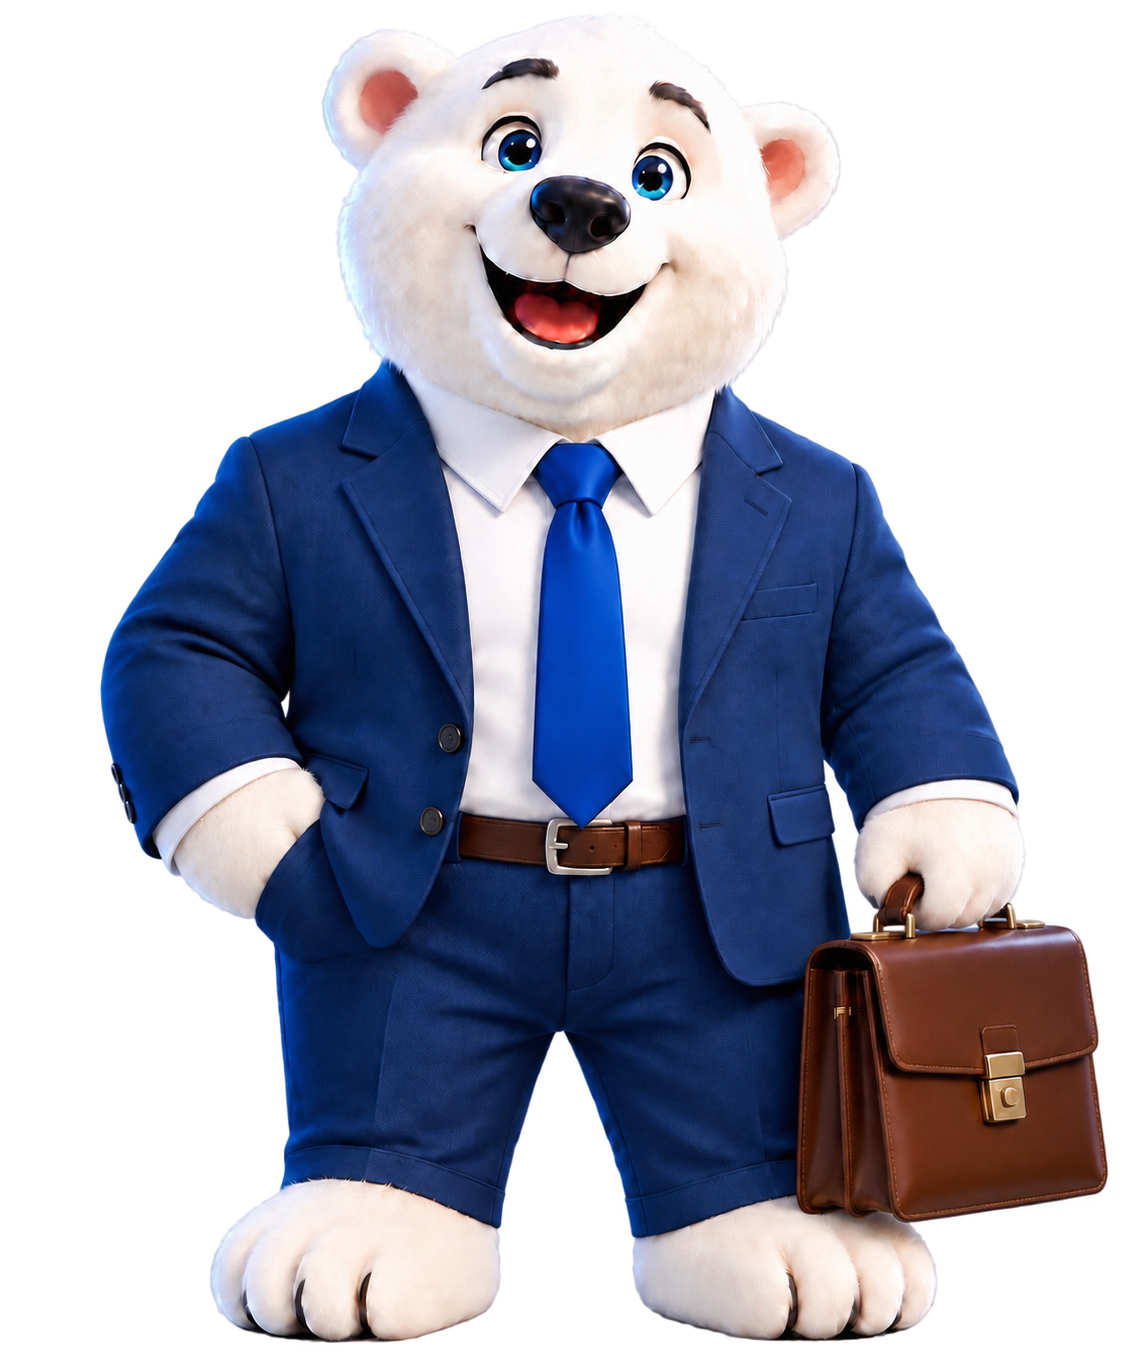
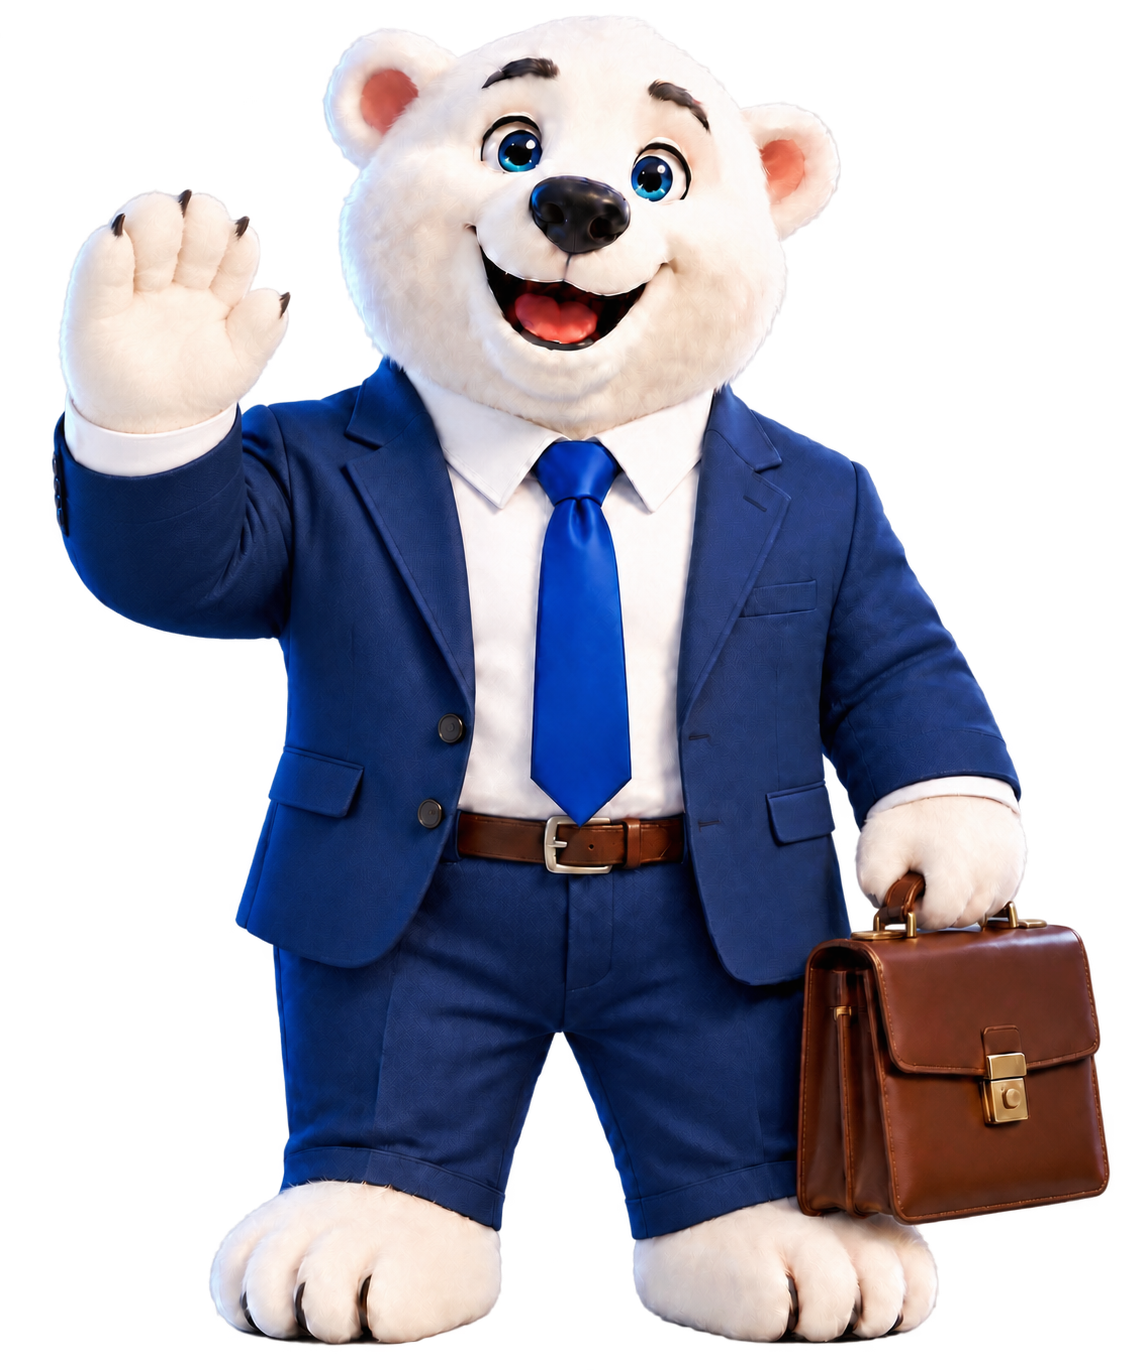
Agrega estado de bienvenida (saludo) al asistente de Humana Business
El oso ejecutivo ahora saluda al ingresar a la página (imagen wave +
mensaje de bienvenida) y, tras unos segundos, pasa automáticamente a la
postura normal con mensajes contextuales según la sección visible,
igual que antes. Ambas imágenes usadas sin modificar.

Claude-Session: https://claude.ai/code/session_01Bg84ahHtij6oa6u1y7U9Xu

diff --git a/app/planes/business/page.tsx b/app/planes/business/page.tsx
@@ -173,6 +173,9 @@ const assistantMessages: Record<string, string> = {
 };
 
 const ASSISTANT_STORAGE_KEY = "business-bear-assistant-minimized";
+const ASSISTANT_WELCOME_MESSAGE =
+  "Hola, soy el asistente virtual de Humana Business. Te acompañaré a descubrir cómo cuidar el bienestar de tu equipo.";
+const ASSISTANT_WELCOME_DURATION_MS = 5000;
 
 /* ---------------------------------------------------------------------- */
 /* Página                                                                  */
@@ -187,6 +190,7 @@ export default function HumanaBusinessPage() {
   const [quoted, setQuoted] = useState(false);
   const [assistantSection, setAssistantSection] = useState("business-inicio");
   const [assistantMinimized, setAssistantMinimized] = useState(false);
+  const [assistantWelcome, setAssistantWelcome] = useState(true);
 
   const activeChapter = chapters.find((c) => c.id === activeChapterId) ?? null;
 
@@ -217,6 +221,17 @@ export default function HumanaBusinessPage() {
       return next;
     });
   };
+
+  /* Estado de bienvenida: el oso saluda al ingresar y, tras unos segundos,
+     pasa a la postura normal con mensajes según la sección visible. */
+  useEffect(() => {
+    if (assistantMinimized) {
+      setAssistantWelcome(false);
+      return;
+    }
+    const timer = window.setTimeout(() => setAssistantWelcome(false), ASSISTANT_WELCOME_DURATION_MS);
+    return () => window.clearTimeout(timer);
+  }, [assistantMinimized]);
 
   useEffect(() => {
     const root = rootRef.current;
@@ -433,7 +448,7 @@ export default function HumanaBusinessPage() {
         <div
           id="business-assistant-slot"
           ref={assistantRef}
-          className={`humana-business-bear-assistant${assistantMinimized ? " is-minimized" : ""}`}
+          className={`humana-business-bear-assistant${assistantMinimized ? " is-minimized" : ""}${assistantWelcome ? " is-welcome" : ""}`}
         >
           {!assistantMinimized && (
             <div className="humana-business-bear-bubble" role="status">
@@ -445,7 +460,9 @@ export default function HumanaBusinessPage() {
               >
                 <X size={13} aria-hidden="true" />
               </button>
-              <p key={assistantSection}>{assistantMessages[assistantSection]}</p>
+              <p key={assistantWelcome ? "welcome" : assistantSection}>
+                {assistantWelcome ? ASSISTANT_WELCOME_MESSAGE : assistantMessages[assistantSection]}
+              </p>
             </div>
           )}
           <button
@@ -455,7 +472,7 @@ export default function HumanaBusinessPage() {
             aria-label={assistantMinimized ? "Mostrar asistente de Humana Business" : "Minimizar asistente de Humana Business"}
           >
             <Image
-              src="/images/planes/business/humana-business-bear.png"
+              src={assistantWelcome ? "/images/planes/business/humana-business-bear-wave.png" : "/images/planes/business/humana-business-bear.png"}
               alt="Asistente virtual Humana Business"
               width={560}
               height={670}

diff --git a/app/globals.css b/app/globals.css
@@ -4252,6 +4252,11 @@ footer p { max-width: 670px; color: #7a8c98; font-size: 12px; line-height: 1.55;
 .humana-business-bear-assistant {
   position: fixed; right: clamp(10px, 2.4vw, 40px); bottom: clamp(20px, 4vh, 48px); z-index: 60;
   display: flex; flex-direction: column; align-items: flex-end; gap: 10px;
+  animation: humanaBusinessBearAppear .6s var(--premium-ease, ease) both;
+}
+@keyframes humanaBusinessBearAppear {
+  from { opacity: 0; transform: translateY(18px) scale(.96); }
+  to { opacity: 1; transform: translateY(0) scale(1); }
 }
 .humana-business-bear-figure {
   border: 0; background: transparent; padding: 0; cursor: pointer; flex: none;
